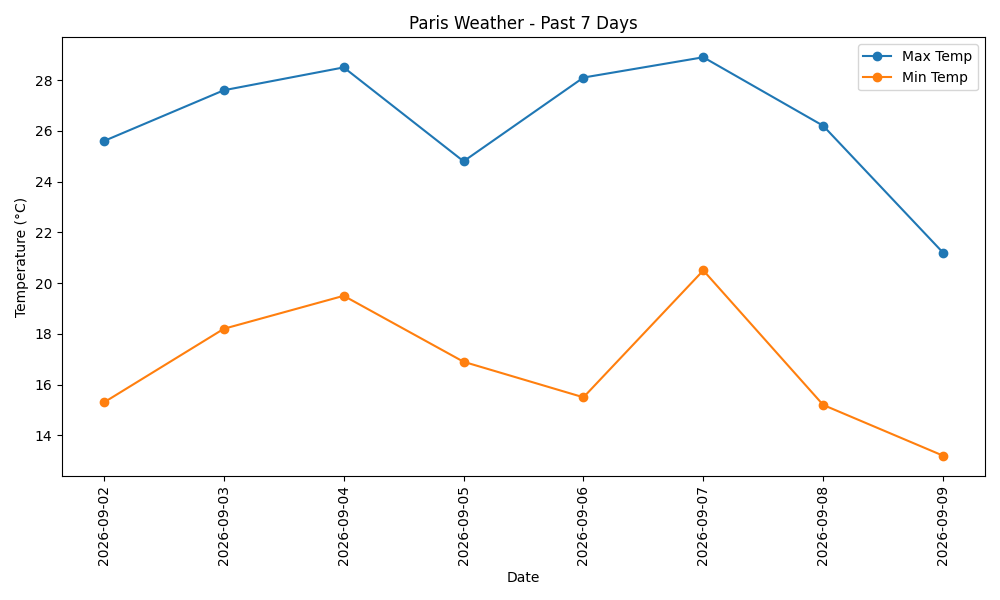
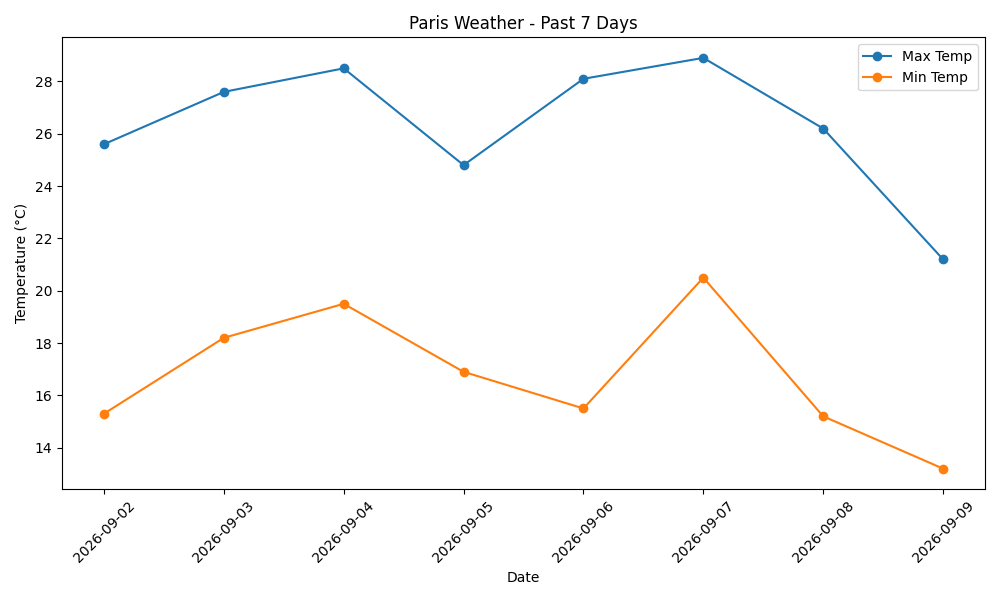
add: save Paris weather data to CSV and create data directory if it doesn't exist

diff --git a/get_data/get_data.py b/get_data/get_data.py
@@ -2,6 +2,7 @@ import requests
 from datetime import datetime, timedelta
 import pandas as pd
 import matplotlib.pyplot as plt
+import os
 
 #calculate dates
 today=datetime.now()
@@ -56,3 +57,11 @@ plt.tight_layout()
 # Save the plot
 plt.savefig('weather_chart.png')
 plt.show()
+
+#Create data folder if does not exist
+if not os.path.exists("data"):
+    os.makedirs("data")
+
+#Save to CSV
+df.to_csv("data/paris_weather.csv",index=False)
+print("Data saved to CSV")
